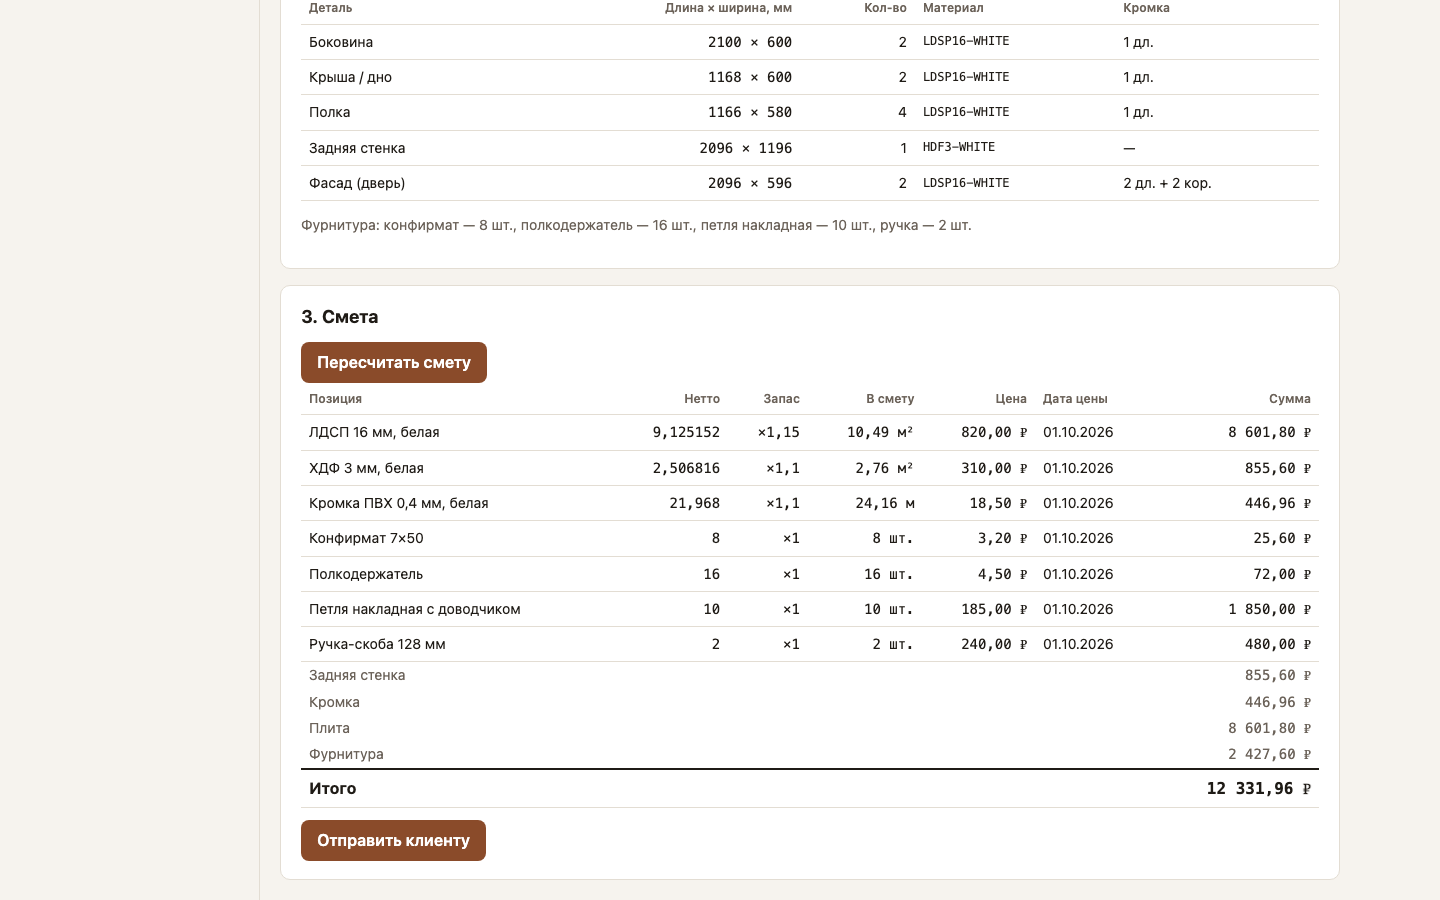
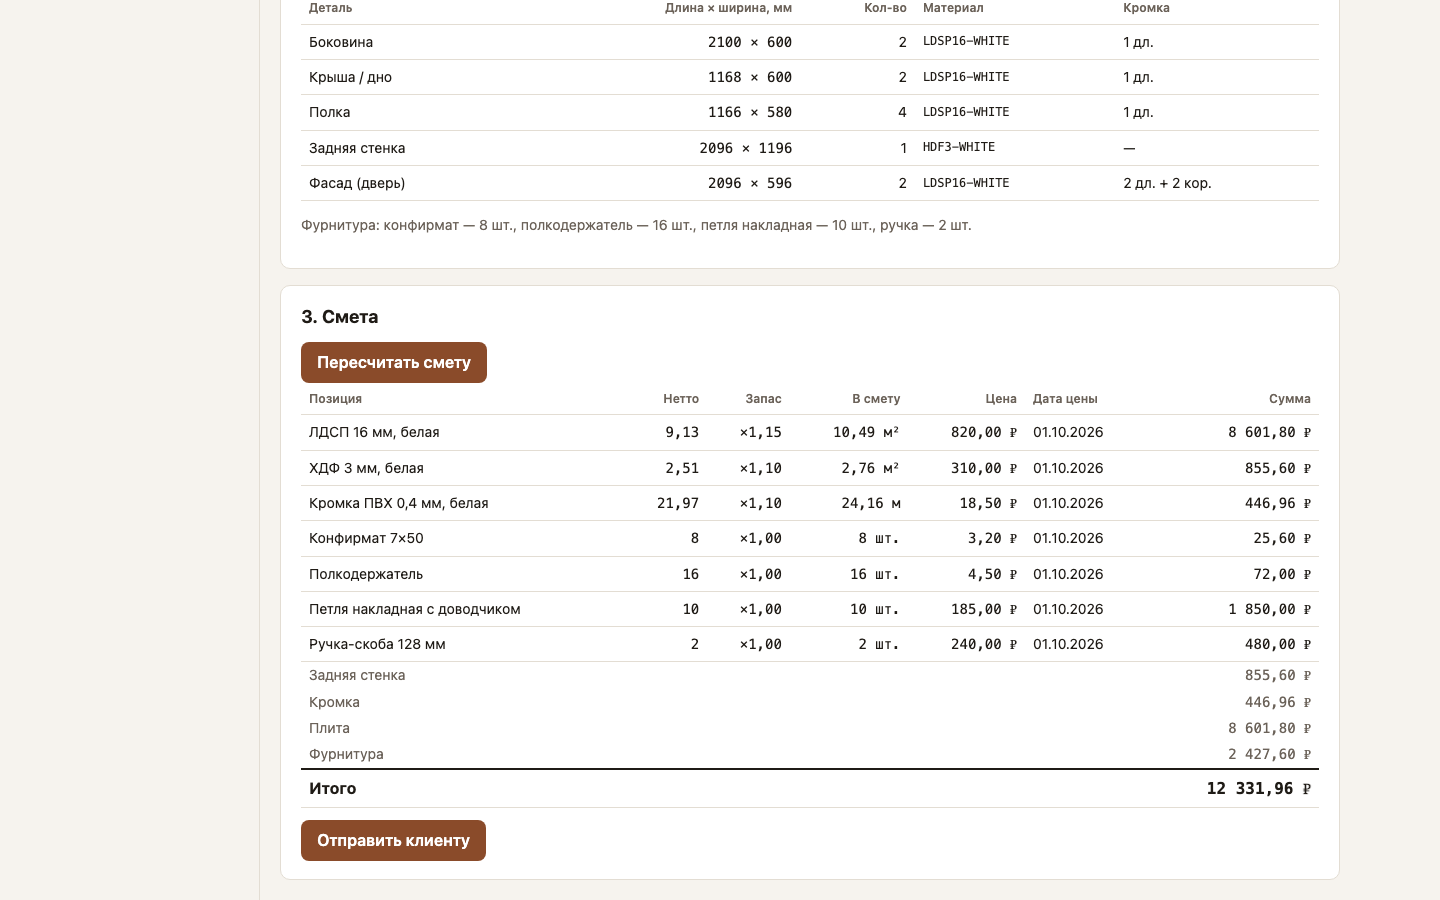
docs(orderflow): BUG-11, скриншот сметы, числа прогона

diff --git a/projects/03-orderflow/docs/05-testing.md b/projects/03-orderflow/docs/05-testing.md
@@ -32,15 +32,15 @@
 | US-06 | `test_integrations.py` | `test_us04_incomplete_*` | «смета без цены…» |
 | R-01…R-10 | `test_review_fixes.py`, `App.test.tsx` | `test_review_fixes.py` | — |
 
-## Прогон 2026-11-03, v0.3.1
+## Прогон 2026-11-04, v0.3.2
 
 macOS, PostgreSQL 16, Chromium из Playwright 1.64.
 
 | Команда | Результат |
 |---|---|
 | `make lint` | ruff, mypy strict, eslint, tsc, prettier — без замечаний |
-| `make test` | pytest 82 passed за 4,97 с (67 unit, 15 integration), покрытие `app/` 97 %; Vitest 16 passed |
-| `make e2e` | 7 passed, 1 skipped за 11,8 с: мобильный сценарий на десктопе пропускается намеренно |
-| `make audit` | pip-audit чисто; npm: 12 moderate в инструментах ESLint |
+| `make test` | pytest 82 passed за 4,79 с (67 unit, 15 integration), покрытие `app/` 97 %; Vitest 18 passed |
+| `make e2e` | 7 passed, 1 skipped за 11,1 с: мобильный сценарий на десктопе пропускается намеренно |
+| `make audit` (03.11) | pip-audit чисто; npm: 12 moderate в инструментах ESLint |
 
 Не проверено: `make up`, на машине сборки нет Docker.

diff --git a/projects/03-orderflow/docs/06-bugs.md b/projects/03-orderflow/docs/06-bugs.md
@@ -38,5 +38,6 @@
 - **Фикс.** Операции, меняющие заявку, берут строку `SELECT … FOR UPDATE` (`app/services.py`).
 - **Тест.** [`test_review_fixes.py::test_r03_estimate_is_not_built_from_replaced_design`](../backend/tests/integration/test_review_fixes.py)
 
-BUG-04 (повторное подтверждение сбрасывало источник) — в [CHANGELOG](CHANGELOG.md),
+BUG-04 (повторное подтверждение сбрасывало источник) и BUG-11 (нетто «9,125152» и запас «×1,1»
+в смете, тест `format.test.ts`) — в [CHANGELOG](CHANGELOG.md),
 ещё 9 находок ревью — в [04-ai-development](04-ai-development.md).

diff --git a/projects/03-orderflow/docs/02-analysis/user-stories.md b/projects/03-orderflow/docs/02-analysis/user-stories.md
@@ -35,7 +35,7 @@
 Как менеджер, я хочу смету с разбивкой, чтобы ответить клиенту в тот же день.
 
 - **Given** спецификация из US-03 **When** считается смета **Then** итог 12 331,96 ₽, у
-  плиты видно нетто 9,125152 м², запас ×1,15, в смету 10,49 м².
+  плиты видно нетто 9,13 м², запас ×1,15, в смету 10,49 м².
 - **Given** ручки без цены **Then** строка без суммы, итог «неполный».
 
 ## US-05. Статусы (FR-12)

diff --git a/projects/03-orderflow/docs/CHANGELOG.md b/projects/03-orderflow/docs/CHANGELOG.md
@@ -6,6 +6,10 @@
 ### Added
 - Интерфейс `AccountingExporter` и заглушка обмена с учётной системой.
 
+## [0.3.2] — 2026-11-04
+### Fixed
+- BUG-11: в смете нетто показывалось сырым Decimal, запас то «×1,15», то «×1,1». Теперь м² и м — 2 знака, штуки — целые, запас ×1,10; расчёт не менялся.
+
 ## [0.3.1] — 2026-11-03
 Исправления по ревью Codex R-01…R-10, см. 04-ai-development.md.
 ### Fixed
